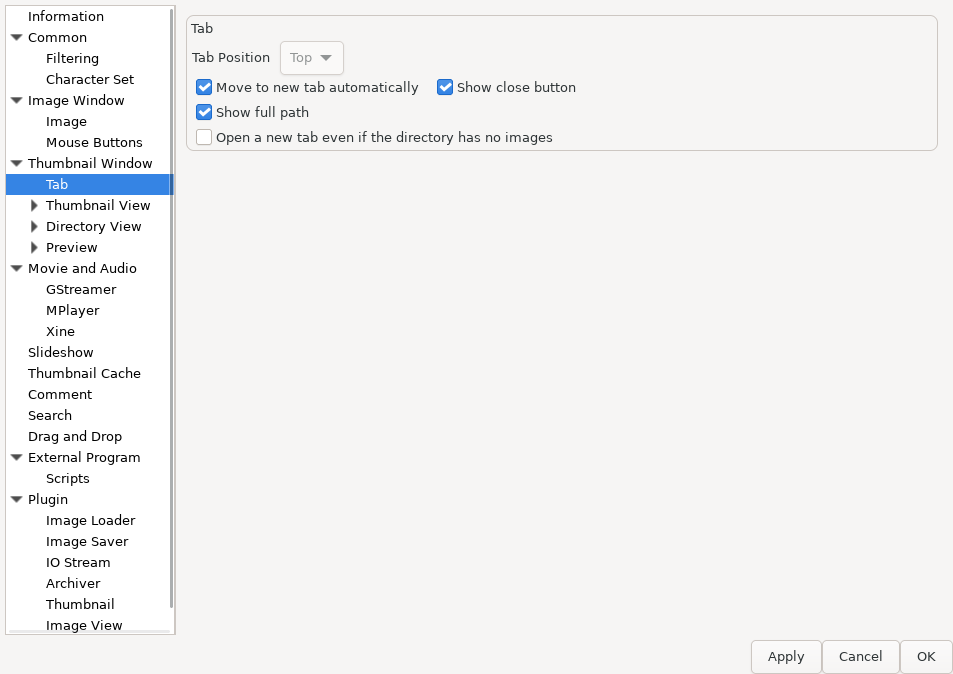
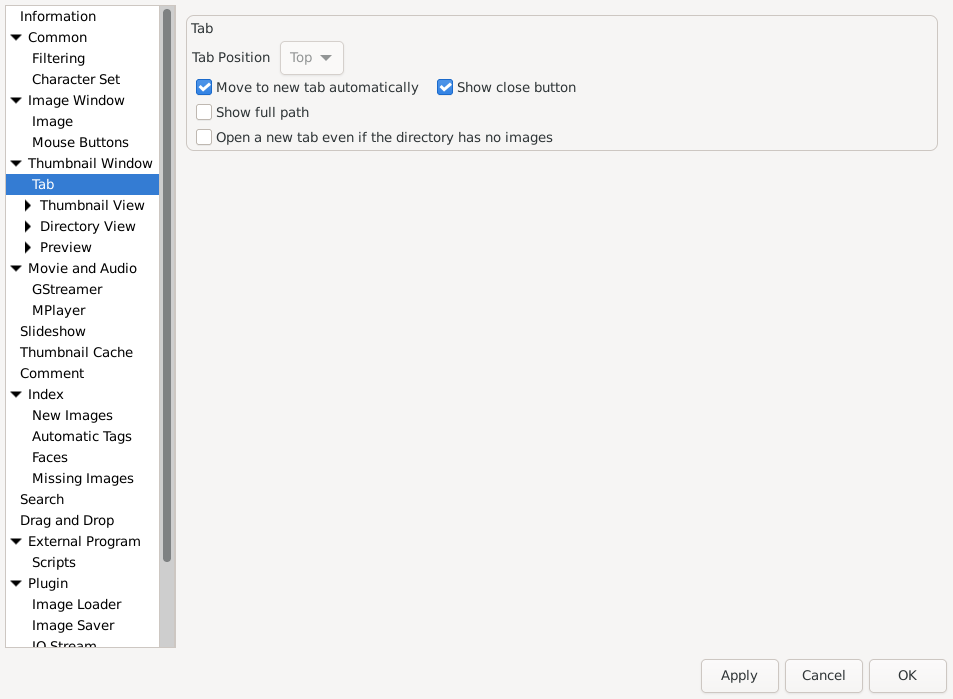
Thumbnail tabs readable in a narrow place
With several tabs in a narrow place (the thumbnails under the directory
view), every tab was shrunk to its least width, "..." only, and which
tab was which could be told only from the tooltips.

- The current tab keeps a width its name can be read in (up to 16
  chars), the others a few chars (gtk_label_set_width_chars () as the
  least width); the arrows of the notebook scroll the tabs that do not
  fit.
- The close button is on the current tab only; the middle button on any
  tab closes it.
- The current tab is lighter (gimv.css, as the tabs of the side
  notebook).
- "Show full path" is off by default: a folder (an archive) is shown by
  its name.  The tab title is the full path either way, so the tooltip
  shows it (it was the name only without "Show full path").

The manual (Preferences, Tab) and its screenshots follow.

Changed region(s): [[0.0, 0.0, 0.5782, 0.9347], [0.7608, 0.9347, 1.0, 1.0], [0.4565, 0.0935, 0.6086, 0.1558]]

diff --git a/doc/en/06.html b/doc/en/06.html
@@ -398,7 +398,7 @@ While thumbnails are loaded, the progress bar shows "loaded/total files" and the
 <div class="sect3">
 <div class="titlepage"><div><h4 class="title">
 <a name="06-03-01"></a>6.3.1. Tab</h4></div></div>
-<div class="figure"><img src="images/prefs_tab.png" width="953" height="674" alt="[Preferences | Thumbnail Window | Tab] (default settings)">
+<div class="figure"><img src="images/prefs_tab.png" width="953" height="699" alt="[Preferences | Thumbnail Window | Tab] (default settings)">
 <p class="caption">[Preferences | Thumbnail Window | Tab] (default settings)</p></div>
 <div class="variablelist"><dl>
 <dt><span class="term"><a name="Tab_Position"></a>Tab Position</span></dt>
@@ -419,13 +419,13 @@ A new tab becomes the active tab.
 <dt><span class="term"><a name="Show_close_button"></a>Show close button</span></dt>
 <dd>
 <p class="para">
-A close button is shown at the right end of each tab.
+A close button is shown at the right end of the current tab.  Any tab is also closed by a click on it with the middle button (whatever this setting).
 </p>
 </dd>
 <dt><span class="term"><a name="Show_full_path"></a>Show full path</span></dt>
 <dd>
 <p class="para">
-Tabs normally show the full path.  Without this option they show only the name of the directory, which keeps the tabs narrow.
+Tabs show the full path of the directory (archive).  Off by default: they show only the name of the directory (archive file).  Either way the whole path is shown when the mouse is on the tab.<br>When many tabs share a narrow place, the current tab keeps a width its name can be read in and the others are shortened to a few characters; the arrows at the ends of the tabs scroll them when they do not fit.
 </p>
 </dd>
 <dt><span class="term"><a name="pen_new_tab_whether_image_is_exist_or_not_in_the_directory"></a>Open a new tab even if the directory has no images</span></dt>

diff --git a/doc/ja/gimv_history.html b/doc/ja/gimv_history.html
@@ -92,6 +92,7 @@
     o 元のフォルダを開く: まだ開いていなかったフォルダでも、選んだ画像の位置を表示するように (一番上が表示されていた)
     o 詳細表示: タブを切り替えたり閉じたりした時、そのタブの一覧のスクロール位置を保つように (一番上に戻っていた)
     o 詳細表示: タブを切り替えた時、カーソル (カーソルキーで動く位置) も元の画像に戻すように。元の画像が見えていなければ、見えている最初の画像に (一覧の先頭になっていた)
+    o サムネイルのタブが狭い時: 表示しているタブは名前が読める幅を取り、他のタブは数文字に (全部「…」になっていた)。クローズボタンは表示しているタブだけ、中ボタンのクリックでどのタブも閉じられる。表示しているタブを明るく。「フルパスを表示する」はデフォルト OFF に (ディレクトリ名。どちらでもツールチップにフルパス)
     o マニュアルの Tips を今の動作に合わせた (当てはまらなくなったイメージウィンドウのバー・ウィンドウサイズの項目を削除、メモリバッファ・サムネイルサイズ・カスタムレイアウトを書き直し)
     o マウスメニューをポインタの右に出す (長くてもスクロールバーが出ない)
     o データタブに「項目を削除」．下の「削除」は「コメントを削除...」にして

diff --git a/doc/en/gimv_history.html b/doc/en/gimv_history.html
@@ -94,6 +94,7 @@
     o Open the Folder: the image chosen is shown also when the folder was not open yet (the top of the folder was shown).
     o Detail view: switching tabs (or closing one) keeps where the list of the tab was scrolled to (it went to the top).
     o Detail view: switching tabs puts the cursor (of the cursor keys) back on the image it was on if that is on screen, on the first image on screen otherwise (it was on the first image of the list).
+    o Tabs of the thumbnails in a narrow place: the current tab keeps a width its name can be read in, the others a few characters (all were "..."); the close button on the current tab only, the middle button closes any tab; the current tab is lighter.  "Show full path" is off by default (the full path is in the tooltip either way).
     o Manual: the Tips are brought up to date (the tips about the bars and the window size of the image window that no longer apply are removed; the memory buffer, the thumbnail size, the custom layout rewritten).
     o Context menus open to the right of the pointer (no scroll bars).
     o Data tab: "Remove Item" for the item selected; "Delete Comment..."

diff --git a/etc/gimv.css b/etc/gimv.css
@@ -20,6 +20,11 @@
   color: #ff0000;
 }
 
+/* the current tab of the thumbnails stands out (as the side notebook's) */
+#ThumbViewNoteBook > header > tabs > tab:checked {
+  background-color: @theme_base_color;
+}
+
 /* toolbars built from plain boxes */
 .gimv-toolbar {
   padding: 2px;

diff --git a/src/gimv_thumb_win.c b/src/gimv_thumb_win.c
@@ -375,6 +375,7 @@ static void cb_thumb_notebook_page_reordered (GtkNotebook   *notebook,
                                               guint          pagenum,
                                               GimvThumbWin  *tw);
 static void thumb_win_update_show_tabs (GimvThumbWin *tw);
+static void thumb_tabs_update (GtkNotebook *notebook);
 static void cb_thumb_notebook_switch_page_after (GtkNotebook  *notebook,
                                                  GtkWidget    *page,
                                                  gint          pagenum,
@@ -2543,6 +2544,7 @@ cb_thumb_pages_changed (GtkNotebook *notebook, GtkWidget *child, guint num,
                         GimvThumbWin *tw)
 {
    thumb_win_update_show_tabs (tw);
+   thumb_tabs_update (notebook);
 }
 
 
@@ -3924,6 +3926,7 @@ cb_thumb_notebook_switch_page_after (GtkNotebook *notebook, GtkWidget *page,
    GimvThumbView *tv;
 
    if (!g_list_find (ThumbWinList, tw)) return;
+   thumb_tabs_update (notebook);
    tv = gimv_thumb_win_find_thumbtable (tw, pagenum);
    if (!tv || !g_object_get_data (G_OBJECT (tv), "gimv-switch-scroll")) return;
 
@@ -4803,6 +4806,87 @@ gimv_thumb_win_set_sensitive (GimvThumbWin *tw, GimvThumbwinStatus status)
 #undef SET_SENSITIVE_WIDGETS_NUM
 
 
+/* the text of a tab for its title without "Show full path": a folder or an
+   archive (a path) by its own name, other titles (a collection) as they are */
+static gchar *
+tab_title_shown (const gchar *title)
+{
+   gsize len;
+   const gchar *p;
+
+   if (!title) return g_strdup ("");
+   if (!(title[0] == '/' || (title[0] == '~' && (title[1] == '/' || !title[1]))))
+      return g_strdup (title);
+   len = strlen (title);
+   while (len > 1 && title[len - 1] == '/') len--;
+   if (len == 1) return g_strndup (title, 1);            /* "/" or "~" */
+   for (p = title + len - 1; p > title && p[-1] != '/'; p--);
+   return g_strndup (p, title + len - p);
+}
+
+
+/* the width of text in chars of the label (a wide char is 2) */
+static gint
+tab_text_width (const gchar *text)
+{
+   gint w = 0;
+   for (; text && *text; text = g_utf8_next_char (text))
+      w += g_unichar_iswide (g_utf8_get_char (text)) ? 2 : 1;
+   return w;
+}
+
+
+/* the tabs of the thumbnails in a narrow place: the current tab keeps a
+   width its name can be read in, the others a few chars (a tab's
+   least width was "…" only, all of them were "…"); the close button only
+   on the current tab; and it is lighter (see gimv.css) */
+#define TAB_CURRENT_CHARS 16
+#define TAB_OTHER_CHARS    5
+
+static void
+thumb_tabs_update (GtkNotebook *notebook)
+{
+   gint i, n = gtk_notebook_get_n_pages (notebook);
+   gint cur = gtk_notebook_get_current_page (notebook);
+
+   for (i = 0; i < n; i++) {
+      GtkWidget *page = gtk_notebook_get_nth_page (notebook, i);
+      GtkWidget *label = g_object_get_data (G_OBJECT (page), "tab-label");
+      GtkWidget *button;
+      gint w;
+
+      if (!label) continue;
+      w = tab_text_width (gtk_label_get_text (GTK_LABEL (label)));
+      gtk_label_set_width_chars (GTK_LABEL (label),
+                                 MIN (w, i == cur ? TAB_CURRENT_CHARS
+                                                  : TAB_OTHER_CHARS));
+      button = g_object_get_data (G_OBJECT (label), "close-button");
+      if (button)
+         gtk_widget_set_visible (button,
+                                 conf.thumbwin_show_tab_close && i == cur);
+   }
+}
+
+
+/* the middle button on a tab closes it (the close button is on the
+   current tab only) */
+static void
+cb_tab_middle_click (GtkGestureClick *gesture, gint n_press,
+                     gdouble x, gdouble y, GimvThumbWin *tw)
+{
+   GtkWidget *hbox = gtk_event_controller_get_widget (GTK_EVENT_CONTROLLER (gesture));
+   GtkWidget *container = g_object_get_data (G_OBJECT (hbox), "page-container");
+   gint num;
+
+   if (!container || !g_list_find (ThumbWinList, tw)) return;
+   num = gtk_notebook_page_num (GTK_NOTEBOOK (tw->notebook), container);
+   if (num < 0) return;
+   gtk_gesture_set_state (GTK_GESTURE (gesture), GTK_EVENT_SEQUENCE_CLAIMED);
+   gimv_thumb_win_close_tab (tw, num);
+   gimv_thumb_win_set_statusbar_page_info (tw, GIMV_THUMB_WIN_CURRENT_PAGE);
+}
+
+
 void
 gimv_thumb_win_set_tab_label_text (GtkWidget *page_container,
                                    const gchar *title)
@@ -4816,16 +4900,23 @@ gimv_thumb_win_set_tab_label_text (GtkWidget *page_container,
       /* a full path: cut at the start (the folder's own name at the end
        * stays); the name only (of a folder or of an archive): cut at the
        * end, its beginning stays */
-      gtk_label_set_ellipsize (GTK_LABEL (tablabel),
-                               title && strchr (title, '/')
-                               ? PANGO_ELLIPSIZE_START : PANGO_ELLIPSIZE_END);
-      gtk_label_set_text (GTK_LABEL (tablabel), title);
-      gtk_widget_set_tooltip_text (tablabel, title);
+      gboolean full = conf.thumbwin_tab_fullpath;
+      gchar *shown = full ? g_strdup (title ? title : "") : tab_title_shown (title);
 
-      if (conf.thumbwin_show_tab_close) {
-         gtk_widget_set_visible (button, TRUE);
-      } else {
-         gtk_widget_set_visible (button, FALSE);
+      /* a full path is cut at the start (the folder's own name at the end
+         stays), a name at the end (its beginning stays); the whole title
+         is in the tooltip */
+      gtk_label_set_ellipsize (GTK_LABEL (tablabel),
+                               full && title && strchr (title, '/')
+                               ? PANGO_ELLIPSIZE_START : PANGO_ELLIPSIZE_END);
+      gtk_label_set_text (GTK_LABEL (tablabel), shown);
+      gtk_widget_set_tooltip_text (tablabel, title);
+      g_free (shown);
+
+      (void) button;
+      {
+         GtkWidget *nb = gtk_widget_get_ancestor (page_container, GTK_TYPE_NOTEBOOK);
+         if (nb) thumb_tabs_update (GTK_NOTEBOOK (nb));
       }
    }
 
@@ -4928,7 +5019,7 @@ gimv_thumb_win_create_tab_container (GimvThumbWin *tw)
     * than its place, which pushed the right side of the thumbnails (and
     * the scroll bar) out of the window: cut at the start, the folder's
     * own name at the end stays; the whole title is in the tooltip */
-   gtk_label_set_ellipsize (GTK_LABEL (tablabel), PANGO_ELLIPSIZE_START);
+   gtk_label_set_ellipsize (GTK_LABEL (tablabel), PANGO_ELLIPSIZE_END);
    gtk_label_set_max_width_chars (GTK_LABEL (tablabel), 30);
    gimv_box_pack_start(GTK_BOX(hbox), tablabel, TRUE, TRUE, 0);
 
@@ -4947,10 +5038,12 @@ gimv_thumb_win_create_tab_container (GimvThumbWin *tw)
 
    gimv_widget_show_all (hbox);
 
-   if (conf.thumbwin_show_tab_close) {
-      gtk_widget_set_visible (button, TRUE);
-   } else {
-      gtk_widget_set_visible (button, FALSE);
+   gtk_widget_set_visible (button, FALSE);   /* see thumb_tabs_update () */
+   {
+      GtkGesture *middle = gtk_gesture_click_new ();
+      gtk_gesture_single_set_button (GTK_GESTURE_SINGLE (middle), GDK_BUTTON_MIDDLE);
+      g_signal_connect (middle, "pressed", G_CALLBACK (cb_tab_middle_click), tw);
+      gtk_widget_add_controller (hbox, GTK_EVENT_CONTROLLER (middle));
    }
 
    dnd_dest_set (hbox, dnd_types_all, dnd_types_all_num);
@@ -4971,6 +5064,7 @@ gimv_thumb_win_create_tab_container (GimvThumbWin *tw)
    gtk_label_set_text (GTK_LABEL (tablabel), buf);
    gtk_notebook_set_menu_label_text (GTK_NOTEBOOK (tw->notebook),
                                      scrolled_window, buf);
+   thumb_tabs_update (GTK_NOTEBOOK (tw->notebook));
 
    /* switch to this page */
    if (conf.thumbwin_move_to_newtab || tw->pagenum == 1)

diff --git a/src/gimv_thumb_view.c b/src/gimv_thumb_view.c
@@ -4590,17 +4590,9 @@ gimv_thumb_view_reset_tab_label (GimvThumbView *tv, const gchar *title)
          return;
       }
 
-      if (conf.thumbwin_tab_fullpath) {
-         tmpstr = fileutil_home2tilde (filename);
-      } else {
-         if (tv->mode == GIMV_THUMB_VIEW_MODE_ARCHIVE) {
-            tmpstr = g_strdup (fileutil_basename (filename));
-         } else {
-            gchar *dirname = g_path_get_dirname (filename);
-            tmpstr = fileutil_dir_basename (dirname);
-            g_free (dirname);
-         }
-      }
+      /* the full path: the tab shows the name only unless "Show full
+         path" (gimv_thumb_win_set_tab_label_text ()), the tooltip all */
+      tmpstr = fileutil_home2tilde (filename);
 
       g_free (tv->tabtitle);
       tv->tabtitle = charset_to_internal (tmpstr,

diff --git a/src/prefs.c b/src/prefs.c
@@ -212,7 +212,7 @@ static ConfParam param_thumbview [] = {
    {"thumbwin_tab_pos",         D_ENUM,   "2",     &conf.thumbwin_tab_pos},
    {"thumbwin_move_to_newtab",  D_BOOL,   "TRUE",  &conf.thumbwin_move_to_newtab},
    {"thumbwin_show_tab_close",  D_BOOL,   "TRUE",  &conf.thumbwin_show_tab_close},
-   {"thumbwin_tab_fullpath",    D_BOOL,   "TRUE",  &conf.thumbwin_tab_fullpath},
+   {"thumbwin_tab_fullpath",    D_BOOL,   "FALSE", &conf.thumbwin_tab_fullpath},
    {"thumbwin_force_open_tab",  D_BOOL,   "FALSE", &conf.thumbwin_force_open_tab},
 
    {"thumbwin_thumb_size",      D_INT,    "96",    &conf.thumbwin_thumb_size},
